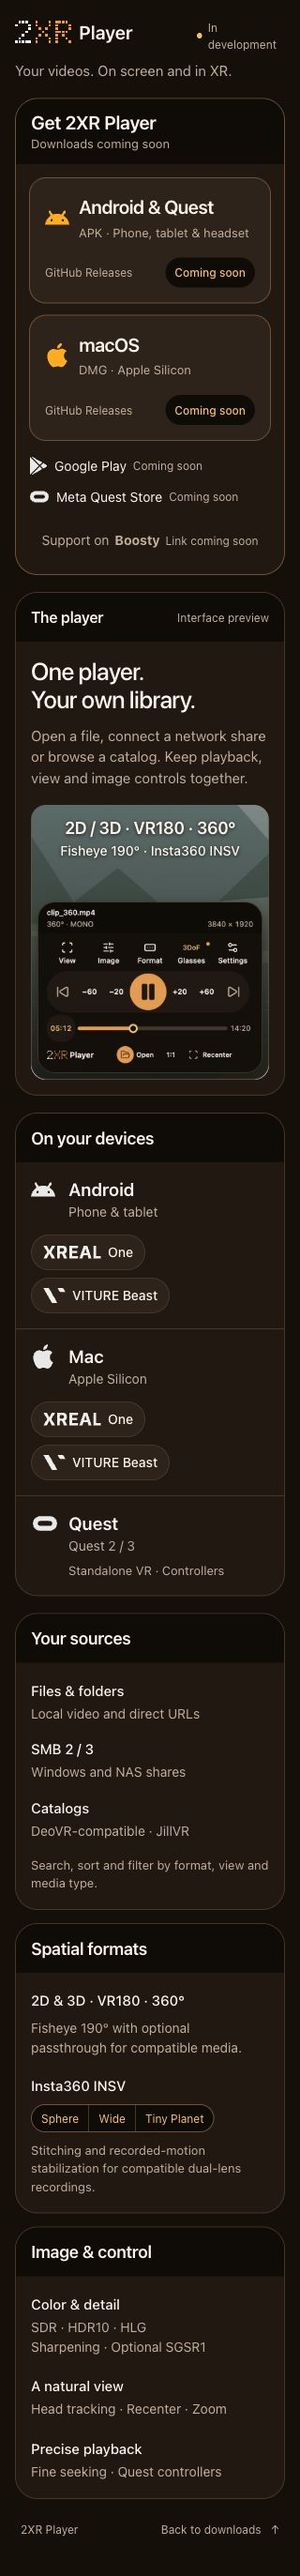
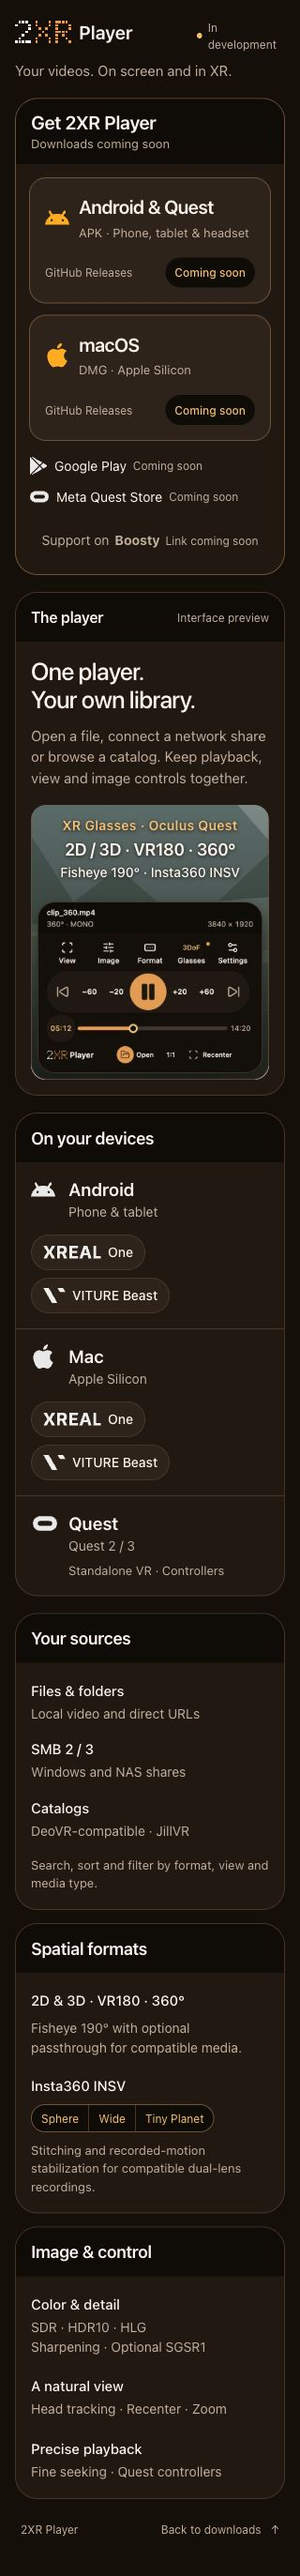
1.0.217: Compose XR devices and formats above the player preview

Changed region(s): [[0.1875, 0.3095, 0.8125, 0.3405]]

diff --git a/styles.css b/styles.css
@@ -64,8 +64,9 @@ h2 { font-size: 18px; line-height: 26px; font-weight: 600; letter-spacing: -.015
 .interface-preview { display: block; position: relative; min-width: 0; }
 .interface-preview picture { display: block; }
 .preview-formats { position: absolute; inset: 18px 12px auto; display: flex; flex-direction: column; align-items: center; gap: 3px; color: var(--text); text-align: center; text-shadow: 0 1px 4px rgb(16 11 7 / 85%); pointer-events: none; }
-.preview-formats > span:first-child { font-size: 21px; line-height: 28px; font-weight: 600; letter-spacing: -.015em; }
-.preview-formats > span:last-child { font-size: 15px; line-height: 21px; font-weight: 500; }
+.preview-formats > .preview-primary { font-size: 21px; line-height: 28px; font-weight: 600; letter-spacing: -.015em; }
+.preview-formats > .preview-secondary { font-size: 15px; line-height: 21px; font-weight: 500; }
+.preview-formats > .preview-devices { color: var(--soft); font-size: 14px; line-height: 20px; font-weight: 600; letter-spacing: .025em; }
 .interface-preview img { display: block; width: 100%; height: auto; border-radius: 16px; }
 .device-grid { display: grid; grid-template-columns: repeat(3, minmax(0, 1fr)); }
 .device { display: grid; grid-template-columns: 30px minmax(0, 1fr); align-items: center; gap: 0 10px; padding: 20px 22px; align-content: start; }
@@ -103,8 +104,8 @@ footer a:hover { color: var(--text); }
   .preview-layout { grid-template-columns: .7fr 1.3fr; gap: 12px; }
   .preview-lead { font-size: 26px; }
   .preview-formats { top: 12px; }
-  .preview-formats > span:first-child { font-size: 18px; line-height: 24px; }
-  .preview-formats > span:last-child { font-size: 14px; line-height: 20px; }
+  .preview-formats > .preview-primary { font-size: 18px; line-height: 24px; }
+  .preview-formats > .preview-secondary { font-size: 14px; line-height: 20px; }
   .device { padding: 18px; }
   .device-detail { line-height: 1.65; }
   .feature-grid { grid-template-columns: repeat(2, minmax(0, 1fr)); }
@@ -155,6 +156,11 @@ footer a:hover { color: var(--text); }
 }
 @media (min-width: 601px) and (max-width: 767px) {
   .preview-formats { top: 8px; gap: 2px; }
-  .preview-formats > span:first-child { font-size: 17px; line-height: 22px; }
-  .preview-formats > span:last-child { font-size: 13px; line-height: 18px; }
+  .preview-formats > .preview-primary { font-size: 17px; line-height: 22px; }
+  .preview-formats > .preview-secondary { font-size: 13px; line-height: 18px; }
+}
+
+@media (min-width: 601px) and (max-width: 979px) {
+  .preview-layout { grid-template-columns: 1fr; }
+  .preview-copy > p:not(.preview-lead) { max-width: none; }
 }

diff --git a/index.html b/index.html
@@ -12,7 +12,7 @@
     <title>2XR Player — Android, Mac &amp; Quest</title>
     <link rel="canonical" href="https://2xr.me/">
     <link rel="icon" href="assets/favicon.svg?v=3" type="image/svg+xml">
-    <link rel="stylesheet" href="styles.css?v=13">
+    <link rel="stylesheet" href="styles.css?v=14">
   </head>
   <body>
     <main class="page">
@@ -49,7 +49,7 @@
         <div class="panel-heading"><h2 id="preview-title">The player</h2><span class="section-note">Interface preview</span></div>
         <div class="preview-layout">
           <div class="preview-copy"><p class="preview-lead">One player.<br> Your own library.</p><p>Open a file, connect a network share or browse a catalog. Keep playback, view and image controls together.</p></div>
-          <div class="interface-preview"><picture><source media="(max-width: 600px)" srcset="assets/interface-phone.png" width="390" height="450"><img src="assets/interface-desktop.png" alt="Capsule interface preview: a video with a warm compact control panel, round Play button and Open, View, Image and Format controls." width="992" height="440" loading="lazy"></picture><div class="preview-formats" aria-label="Supported video formats"><span>2D / 3D · VR180 · 360°</span><span>Fisheye 190° · Insta360 INSV</span></div></div>
+          <div class="interface-preview"><picture><source media="(max-width: 600px)" srcset="assets/interface-phone.png" width="390" height="450"><img src="assets/interface-desktop.png" alt="Capsule interface preview: a video with a warm compact control panel, round Play button and Open, View, Image and Format controls." width="992" height="440" loading="lazy"></picture><div class="preview-formats" aria-label="Video formats and XR devices"><span class="preview-devices">XR Glasses · Oculus Quest</span><span class="preview-primary">2D / 3D · VR180 · 360°</span><span class="preview-secondary">Fisheye 190° · Insta360 INSV</span></div></div>
         </div>
       </section>
 

diff --git a/README.md b/README.md
@@ -46,7 +46,8 @@ The two download choices dominate the first screen. The responsive layout uses
 natural scrolling and stacks downloads before product information on phones.
 The interface images are cropped screenshots of the approved HTML design reference,
 not claims about installed-player or device verification. The website lists video
-formats directly over the mountain background, above the illustrated controls.
+formats directly over the mountain background, above the illustrated controls,
+with an accent line for XR Glasses and Oculus Quest.
 Their source is
 `docs/player/ui-plans/capsule-2026-10-03` in the player repository.
 Android and Mac compatibility includes prominent XREAL One and VITURE Beast

diff --git a/design-review/README.md b/design-review/README.md
@@ -16,3 +16,7 @@ missing images. Both primary download choices end by 470 px from the page top.
 Asset existence, SVG syntax, unique IDs and internal anchors were checked. These
 checks concern the static website and approved interface preview, not player or
 physical-device acceptance.
+
+The preview caption also lists XR Glasses and Oculus Quest above the video formats.
+Its three-line hierarchy was checked at 11 widths, including the 600/601 and
+979/980 px layout transitions; every case keeps at least 8 px above the controls.
